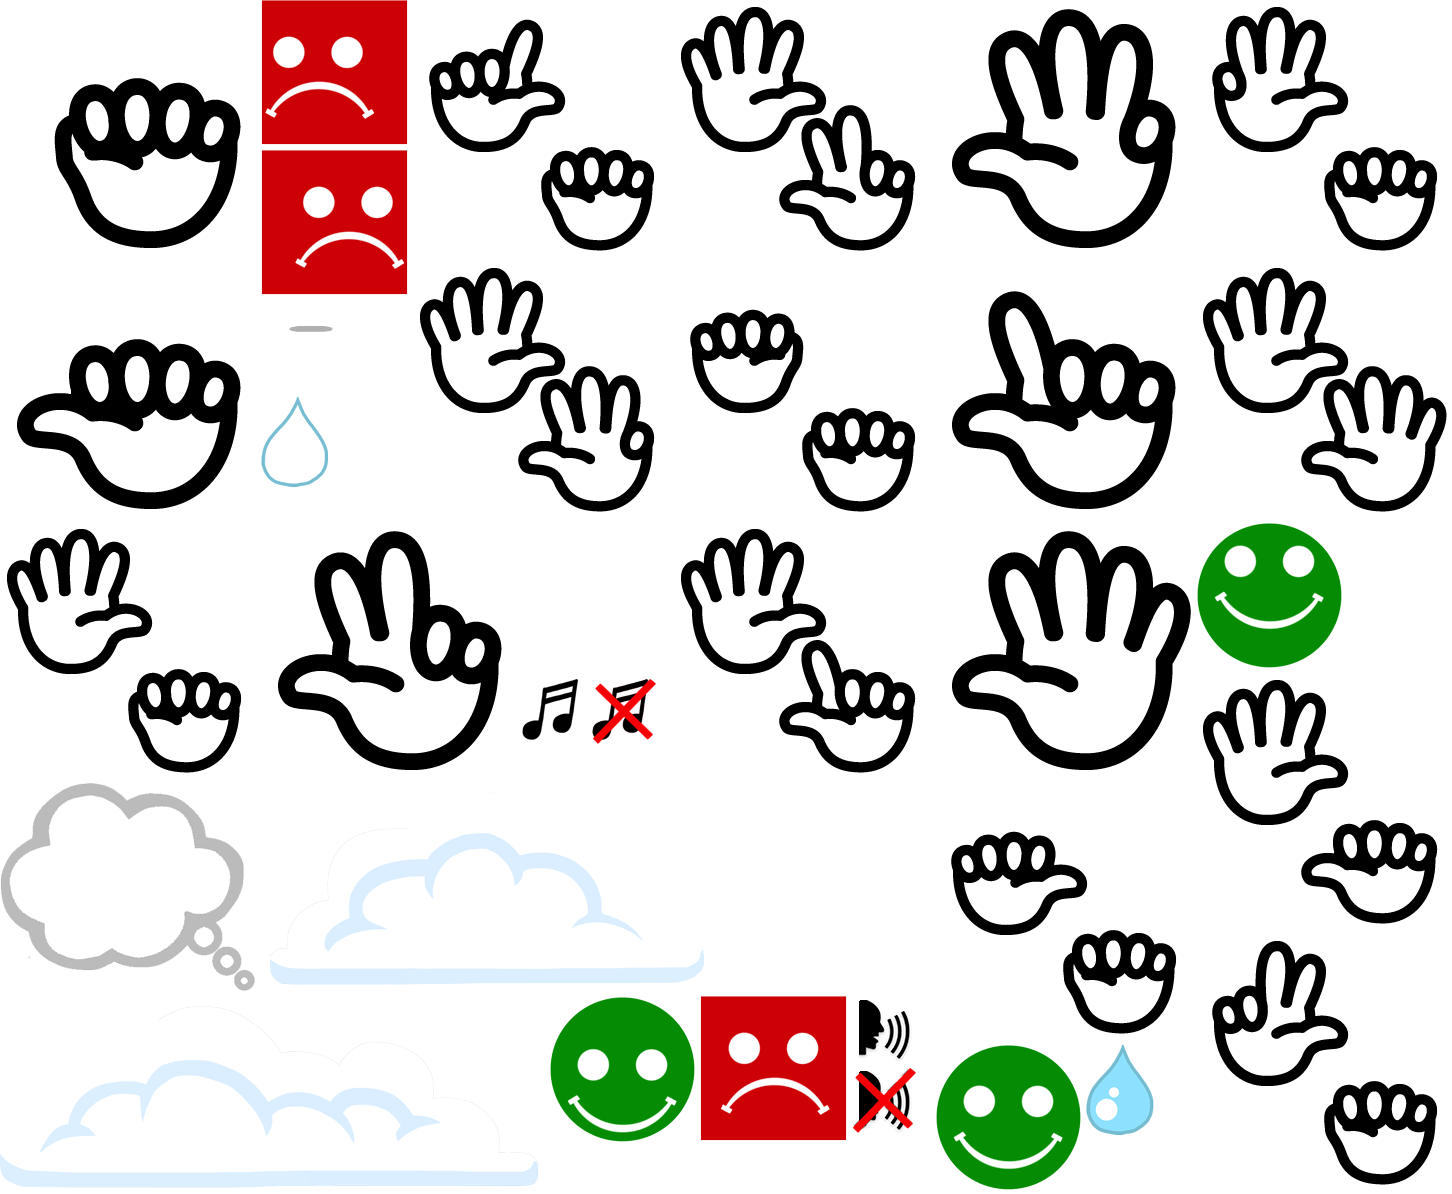
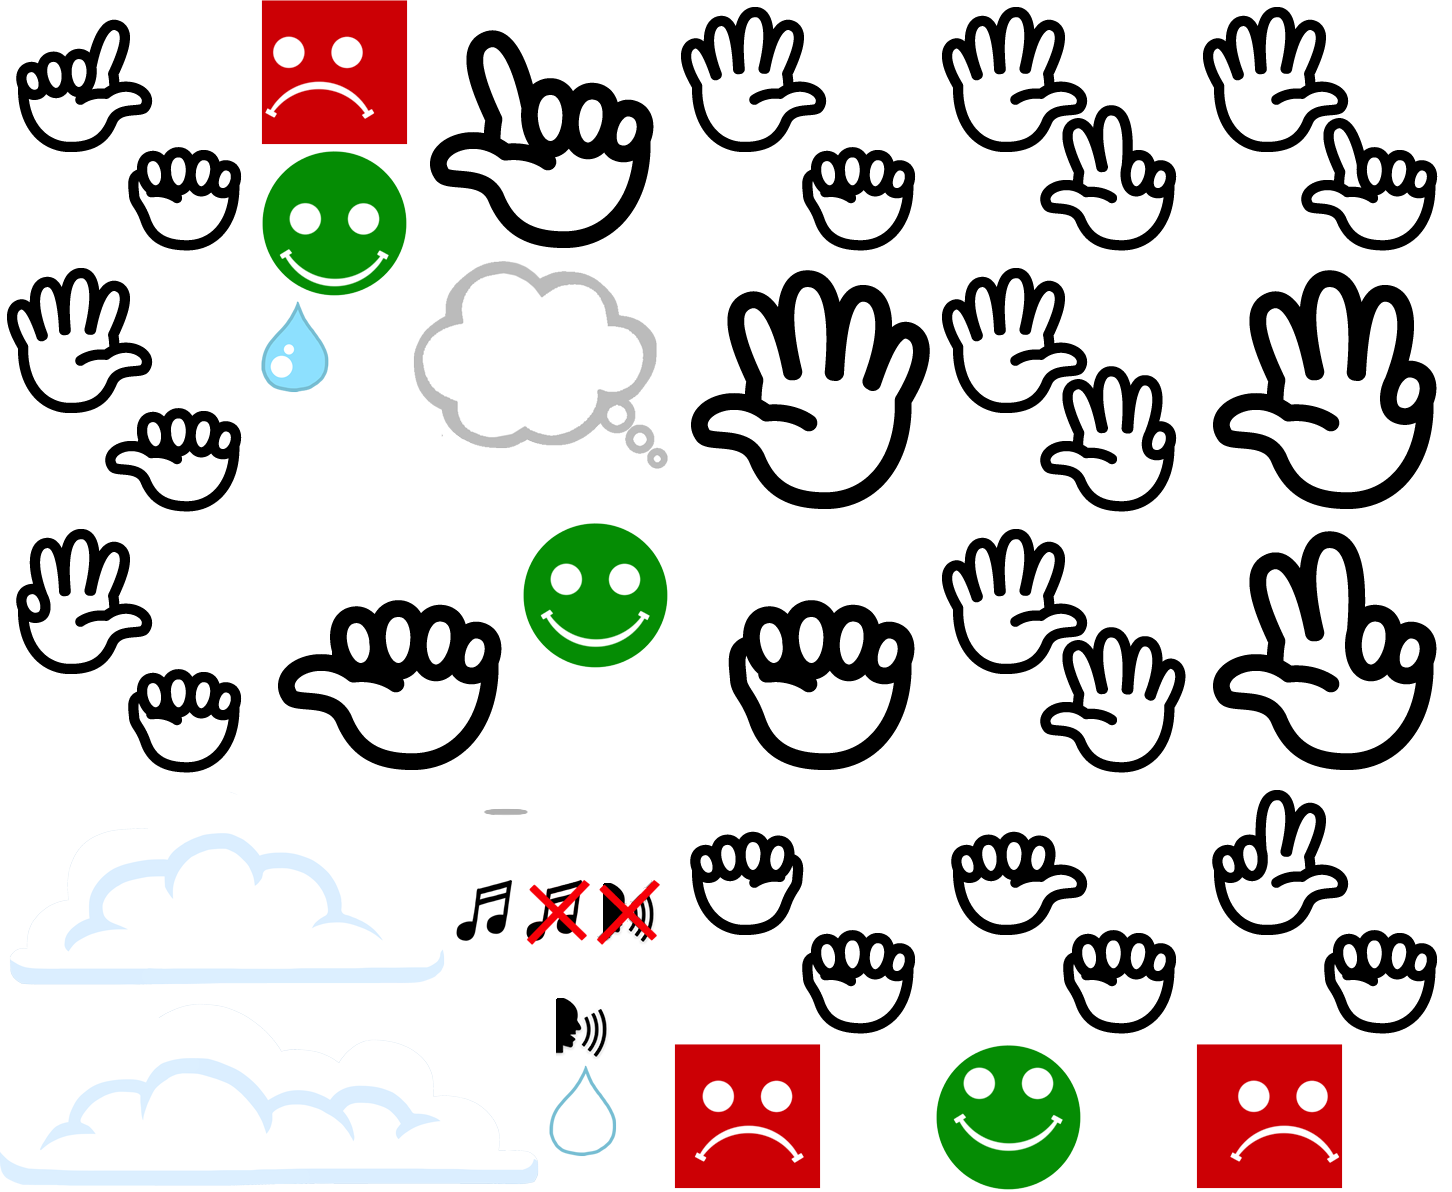
Garden: Move plant update
Agent is now sorted in z-direction compared to the plants.

diff --git a/src/script/states/GardenState.js b/src/script/states/GardenState.js
@@ -93,15 +93,15 @@ GardenState.prototype.create = function () {
 	}
 
 	/* Setup the garden fields */
-	var plants = this.add.group();
-	plants.x = 50;
-	plants.y = 250;
+	this.plantGroup = this.add.group();
+	this.plantGroup.x = 90;
+	this.plantGroup.y = 350;
 	var maxLevel = 5;
 	var currentPlant;
 
 	var plantArea = new Cover(this.game, null, 0);
-	plantArea.width = this.world.width - plants.x * 2;
-	plantArea.height = this.world.height - plants.y;
+	plantArea.width = this.world.width - this.plantGroup.x * 2;
+	plantArea.height = this.world.height - this.plantGroup.y;
 	plantArea.inputEnabled = true;
 	plantArea.events.onInputDown.add(function (notUsed, event) {
 		util.fade(this.actions, false, 0.1);
@@ -110,9 +110,12 @@ GardenState.prototype.create = function () {
 		newPlantButtonButton.x = event.x - newPlantButtonButton.width / 2;
 		newPlantButtonButton.y = event.y - newPlantButtonButton.height / 2;
 		util.fade(newPlantButtonButton, true, 0.1);
-		moveAgent.call(this, event.x + (this.agent.x < event.x ? (-this.agent.width / 2) : (this.agent.height / 2)), event.y + newPlantButtonButton.height / 2 - this.agent.height / 2);
+
+		var x = event.x - this.plantGroup.x;
+		var y = event.y - this.plantGroup.y;
+		moveAgent.call(this, x + (this.agent.x < x ? -1 : 1) * (this.agent.width / 2 + this.agent.leftArm.width * this.agent.scale.x / 2), y + newPlantButtonButton.height / 2 - this.agent.height / 2);
 	}, this);
-	plants.add(plantArea);
+	this.plantGroup.add(plantArea);
 	var newPlantButtonButton = new SpriteButton(this.game, 'objects', 'drop', { // The button to push when adding water.
 		x: 0, y: 0, size: 60, color: 0x25377D,
 		onClick: (function () {
@@ -128,8 +131,15 @@ GardenState.prototype.create = function () {
 		var field = fields[key];
 		var plant = new GardenPlant(this.game, field.x, field.y, field.content_type, field.level); // jshint ignore:line
 		plant.id = key;
-		plants.add(plant);
+		this.plantGroup.add(plant);
 	}
+
+	/* Add the garden agent */
+	this.agent = this.game.player.createAgent();
+	this.agent.scale.set(0.2);
+	this.agent.x = -200;
+	this.agent.y = 0;
+	this.plantGroup.add(this.agent);
 
 	/* The interface for plants. */
 	this.actions = this.add.group();
@@ -139,7 +149,35 @@ GardenState.prototype.create = function () {
 	bmd.ctx.globalAlpha = 0.5;
 	bmd.ctx.fillRect(0, 0, bmd.width, bmd.height);
 	this.game.add.sprite(0, 0, bmd, null, this.actions);
-	// TODO: Move button.
+	this.actions.moveButton = new SpriteButton(this.game, 'objects', 'move', { // The button to push when adding water.
+		x: 10, y: 10, size: this.actions.height - 20, color: 0xFFFAF0
+	});
+	this.actions.moveButton.sprite.tint = 0x5D2500;
+	this.actions.moveButton.bg.events.onInputDown.add(function (noUsed, event) {
+		var ex = event.x;
+		var ey = event.y;
+		var ax = this.actions.x;
+		var ay = this.actions.y;
+		var px = currentPlant.x;
+		var py = currentPlant.y;
+		currentPlant.update = (function () {
+			var newX = (px + event.x - ex);
+			if (newX > 0 && newX < plantArea.width) {
+				currentPlant.x = newX;
+				this.actions.x = ax + event.x - ex;
+			}
+			var newY = (py + event.y - ey);
+			if (newY > 0 && newY < (plantArea.height)) {
+				currentPlant.y = newY;
+				this.actions.y = ay + event.y - ey;
+			}
+		}).bind(this);
+	}, this);
+	this.actions.moveButton.bg.events.onInputUp.add(function () {
+		moveAgentToPlant.call(this);
+		currentPlant.update = function () {};
+	}, this);
+	this.actions.add(this.actions.moveButton);
 	this.actions.waterButton = new SpriteButton(this.game, 'objects', 'drop', { // The button to push when adding water.
 		x: this.actions.width / 2 + 10, y: 10, size: this.actions.height - 20,
 		color: 0x25377D, keepDown: true,
@@ -156,13 +194,6 @@ GardenState.prototype.create = function () {
 		fill: '#5555ff'
 	}, this.actions);
 	this.actions.maxText.anchor.set(0.5);
-
-	/* Add the garden agent */
-	this.agent = this.game.player.createAgent();
-	this.agent.scale.set(0.2);
-	this.agent.x = -100;
-	this.agent.y = this.world.height / 2;
-	this.world.add(this.agent);
 
 	/* Add the water can */
 	this.world.add(new WaterCan(this.game));
@@ -191,6 +222,11 @@ GardenState.prototype.create = function () {
 		}, 0, null, this);
 	}
 
+	function moveAgentToPlant (plant) {
+		var p = plant || currentPlant;
+		moveAgent.call(this, p.x + (this.agent.x < p.x ? -1 : 1) * (p.width / 2 + this.agent.width / 2 + this.agent.leftArm.width * this.agent.scale.x / 2), p.y - this.agent.height / 2);
+	}
+
 	/* Water plant when we push it. */
 	function waterPlant (plant) {
 		if (plant.level === maxLevel) {
@@ -206,8 +242,8 @@ GardenState.prototype.create = function () {
 
 				if (!plant.level) { // New plant!
 					// Add the plant on a coordinate relative to the plants group.
-					plant = new GardenPlant(this.game, plant.x - plants.x, plant.y - plants.y, this.rnd.integerInRange(1, 13), 1);
-					plants.add(plant);
+					plant = new GardenPlant(this.game, plant.x - this.plantGroup.x, plant.y - this.plantGroup.y, this.rnd.integerInRange(1, 13), 1);
+					this.plantGroup.add(plant);
 				} else {
 					plant.upgrade();
 					if (plant.level === maxLevel) {
@@ -264,13 +300,11 @@ GardenState.prototype.create = function () {
 		}
 
 		currentPlant = plant;
+		moveAgentToPlant.call(this);
 
-		var x = plants.x + plant.x;
-		var y = plants.y + plant.y;
-		moveAgent.call(this, x + (this.agent.x < x ? -1 : 1) * (plant.width / 2 + this.agent.width / 2), y - this.agent.height / 2);
-
-		this.actions.x = x - this.actions.width / 2;
-		this.actions.y = y - plant.height - this.actions.height;
+		// Actions is outside plant group, so add group coordinates.
+		this.actions.x = this.plantGroup.x + plant.x - this.actions.width / 2;
+		this.actions.y = this.plantGroup.y + plant.y - plant.height - this.actions.height;
 		if (plant.level === maxLevel) {
 			this.actions.waterButton.visible = false;
 			this.actions.maxText.visible = true;
@@ -292,7 +326,7 @@ GardenState.prototype.create = function () {
 /* When the state starts. */
 GardenState.prototype.startGame = function () {
 	var t = new TimelineMax().skippable();
-	t.add(this.agent.move({ x: this.world.centerX }, 3));
+	t.add(this.agent.move({ x: this.world.width / 2 - this.plantGroup.x }, 3));
 
 	if (this.game.player.water > 0) {
 		if (this.gardenData.fields.length > 0) {
@@ -305,20 +339,19 @@ GardenState.prototype.startGame = function () {
 		if (this.gardenData.fields.length > 0) {
 			t.addSound(this.agent.speech, this.agent, 'gardenYoureBack');
 		} else {
-			var w = new WaterCan(this.game);
+			var w = new WaterCan(this.game, 0, this.agent.height);
+			w.can.anchor.set(0.5);
+			w.scale.set(0);
 			w.visible = false;
-			this.world.add(w);
+			this.agent.add(w);
 
 			t.addSound(this.agent.speech, this.agent, 'gardenIntro');
 			t.addLabel('myCan', '+=0.5');
 			t.addCallback(function () {
-				w.x = this.agent.x - w.width/4; // Since we scale to 0.5
-				w.y = this.agent.y;
-				w.scale.set(0);
 				w.visible = true;
-				this.agent.eyesFollowObject(w);
+				this.agent.eyesFollowObject(w.can);
 			}, null, null, this);
-			t.add(new TweenMax(w.scale, 1, { x: 0.5, y: 0.5, ease: Elastic.easeOut }), 'myCan');
+			t.add(new TweenMax(w.scale, 1, { x: 3, y: 3, ease: Elastic.easeOut }), 'myCan');
 			t.addSound(this.agent.speech, this.agent, 'gardenMyCan', 'myCan');
 			t.add(new TweenMax(w.scale, 1, { x: 0, y: 0, ease: Elastic.easeOut, onComplete: w.destroy, onCompleteScope: w }));
 		}
@@ -331,6 +364,12 @@ GardenState.prototype.startGame = function () {
 		this.agent.eyesStopFollow();
 		this.disabler.visible = false;
 	}, null, null, this);
+};
+
+GardenState.prototype.run = function () {
+	this.agent.y += this.agent.height / 2;
+	this.plantGroup.sort('y', Phaser.Group.SORT_ASCENDING);
+	this.agent.y -= this.agent.height / 2;
 };
 
 

diff --git a/src/script/objects/WaterCan.js b/src/script/objects/WaterCan.js
@@ -16,8 +16,8 @@ WaterCan.prototype.constructor = WaterCan;
  */
 function WaterCan (game, x, y, amount) {
 	Phaser.Group.call(this, game, null); // Parent constructor.
-	this.x = x || game.width - 125;
-	this.y = y || 5;
+	this.x = typeof x === 'number' ? x : (game.width - 125);
+	this.y = typeof y === 'number' ? y : 5;
 	this.amount = amount || this.game.player.water;
 	var origin = 87;
 	var waterStep = 54 / this.game.player.maxWater;

diff --git a/src/script/language.js b/src/script/language.js
@@ -100,7 +100,7 @@ LANG.swedish.text = {
 
 	/* Entry state */
 	title: 'Magical Garden',
-	start: 'Starta!',
+	start: 'Starta',
 	continuePlaying: 'Fortsätt',
 	changeAgent: 'Byt ut ', // Followed by agent name
 	credits: 'Skapat av',
